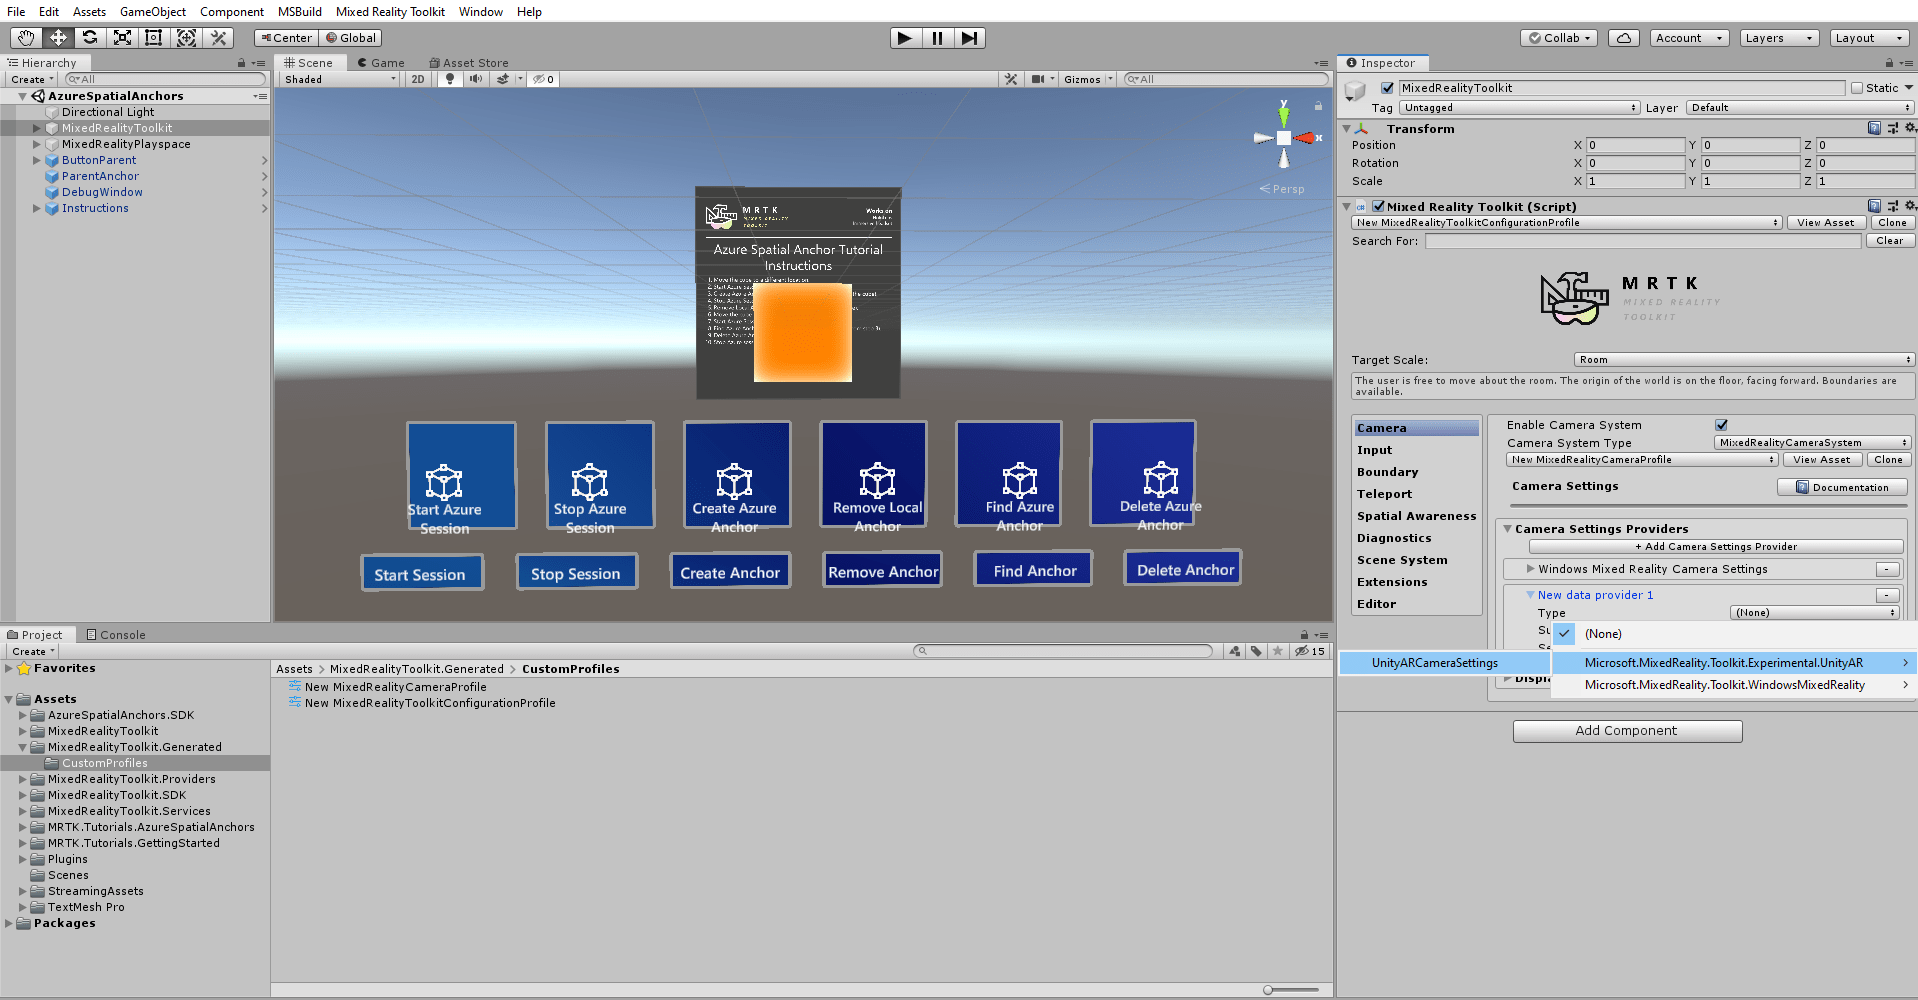
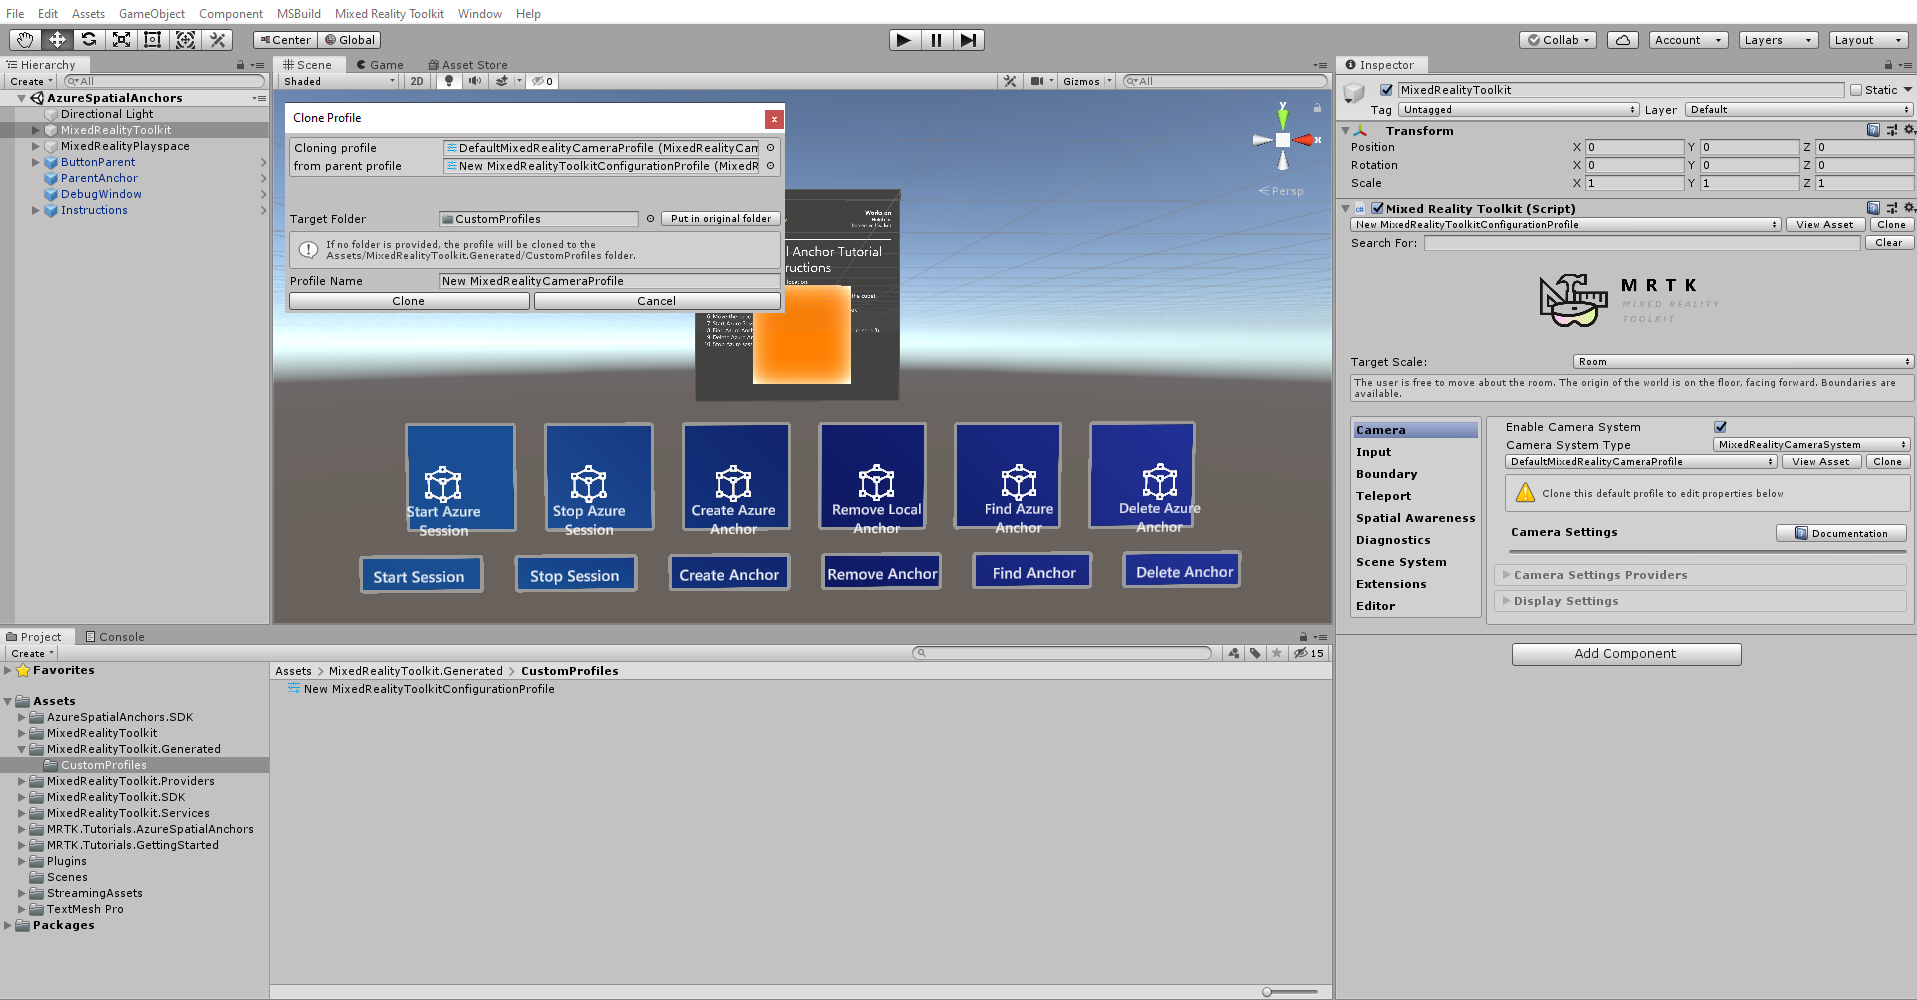
Updated clone settings image

diff --git a/mixed-reality-docs/mrlearning-asa-ch4.md b/mixed-reality-docs/mrlearning-asa-ch4.md
@@ -63,15 +63,19 @@ When you click the **Clone** button, a new clone Profile window will appear, cli
 
 ![mrlearning-asa](images/mrlearning-asa/tutorial4-section2-step1-2.png)
 
-Similarly, clone the camera profile in the Inspector window, rename the profile to **UnityARConfigurationProfile**, and click on the **Clone** button. In the Inspector window, locate the MixedReality, select the **Camera** tab. Expand the camera setting providers in the inspector window and click on **+ Add Camera Setting Provider** > expand **New data provider 1** > select type **None** > select **Microsoft.MixedReality.Toolkit.Experimental.UnityAR** > select **UnityARCameraSettings**.
+Similarly, clone the **Camera Profile** in the Inspector window.
 
 ![mrlearning-asa](images/mrlearning-asa/tutorial4-section2-step1-3.png)
+
+In the Inspector window, locate the MixedReality, select the **Camera** tab. Expand the camera setting providers in the inspector window and click on **+ Add Camera Setting Provider** > expand **New data provider 1** > select type **None** > select **Microsoft.MixedReality.Toolkit.Experimental.UnityAR** > select **UnityARCameraSettings**.
+
+![mrlearning-asa](images/mrlearning-asa/tutorial4-section2-step1-4.png)
 
 With the MixedRealityToolKit object selected in the Hierarchy window, In the Inspector window, attach supporting scripts by clicking on the **Add component** button and type in AR reference Point manager and select the script.
 
 Adding the  **AR Reference Point Manager** script will automatically add **AR session origin** to the Inspector window. After adding the supporting scripts, the Inspector window should look like this.
 
-![mrlearning-asa](images/mrlearning-asa/tutorial4-section2-step1-4.png)
+![mrlearning-asa](images/mrlearning-asa/tutorial4-section2-step1-5.png)
 
 ## Build an application to an Android device
 
@@ -79,7 +83,7 @@ To build this application to your Android device, click on **File** at the top o
 
 ![mrlearning-asa](images/mrlearning-asa/tutorial4-section3-step1-1.png)
 
-Close the **Build Settings** window. In the Unity menu, select **Mixed Reality Toolkit** > **Utilities** > **Configure Unity Project** and click on **Apply** to configure the Unity project for the Android platform.
+Close the **Build Settings** window. In the Unity menu, select Mixed Reality Toolkit > Utilities > Configure Unity Project and click on **Apply** to configure the Unity project for the Android platform.
 
 ![mrlearning-asa](images/mrlearning-asa/tutorial4-section3-step1-2.png)
 
@@ -87,7 +91,7 @@ In the Unity menu, select **Edit** > **Project Settings** to open the Project Se
 
 ![mrlearning-asa](images/mrlearning-asa/tutorial4-section3-step1-3.png)
 
-Close the Player Settings window and open the Build Settings window again. Then, using a USB cable, connect your Android device to your computer and select your device in the **Build and Run on** the dropdown, then click **Build And Run**. You will be asked to save a .apk file, which you can pick any name.
+Close the **Player Settings** window and open the **Build Settings** window again. Then, using a USB cable, connect your Android device to your computer and select your device in the **Build and Run** on the dropdown, then click **Build And Run**. You will be asked to save a .apk file, which you can pick any name.
 
 ![mrlearning-asa](images/mrlearning-asa/tutorial4-section3-step1-4.png)
 
@@ -102,7 +106,7 @@ To build this application to your iOS device, click on **File** at the top of th
 
 ![mrlearning-asa](images/mrlearning-asa/tutorial4-section4-step1-1.png)
 
-Close the **Build Settings** window. In the Unity menu, select **Mixed Reality Toolkit** > **Utilities** > **Configure Unity Project** and click on **Apply** to configure the Unity project for the iOS platform.
+Close the **Build Settings** window. In the Unity menu, select Mixed Reality Toolkit > Utilities > Configure Unity Project, and click on **Apply** to configure the Unity project for the iOS platform.
 
 ![mrlearning-asa](images/mrlearning-asa/tutorial4-section4-step1-2.png)
 
